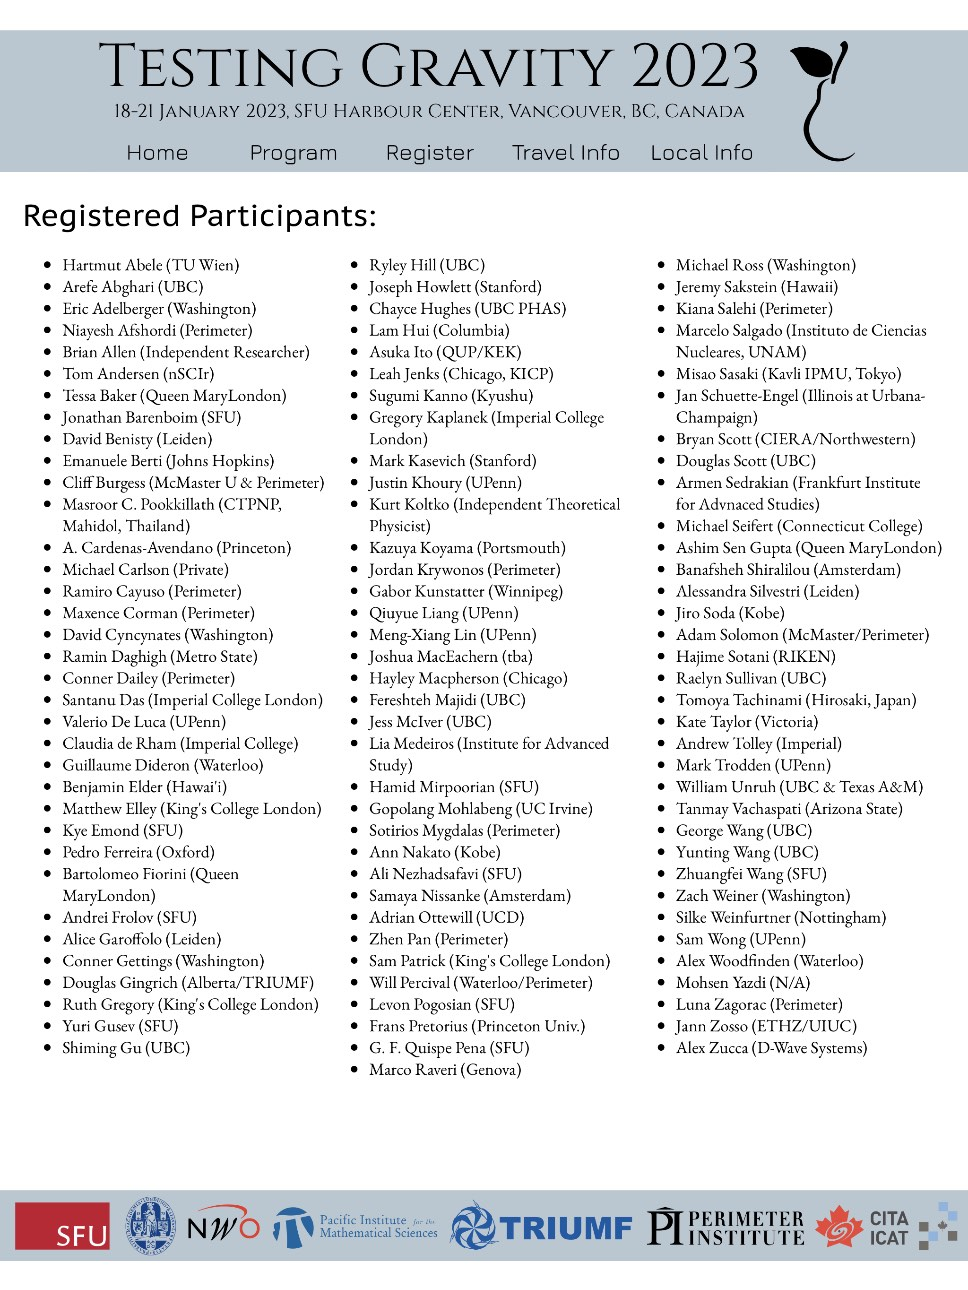
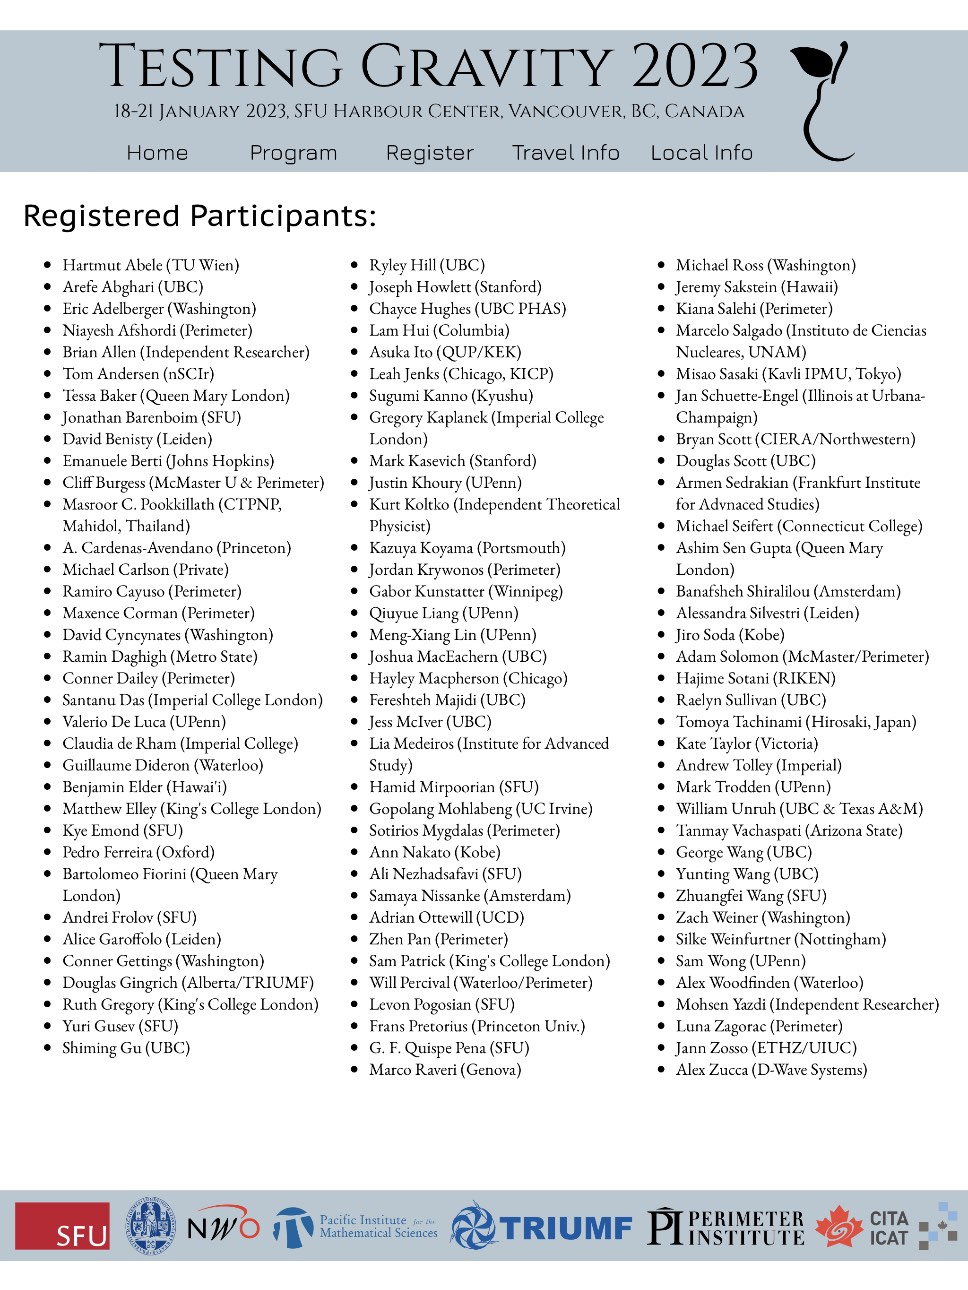
A few more typos in participant lst fixed.

diff --git a/participants/participants.html b/participants/participants.html
@@ -12,7 +12,7 @@
 <li>Niayesh Afshordi (Perimeter)
 <li>Brian Allen (Independent Researcher)
 <li>Tom Andersen (nSCIr)
-<li>Tessa Baker (Queen MaryLondon)
+<li>Tessa Baker (Queen Mary London)
 <li>Jonathan Barenboim (SFU)
 <li>David Benisty (Leiden)
 <li>Emanuele Berti (Johns Hopkins)
@@ -33,7 +33,7 @@
 <li>Matthew Elley (King's College London)
 <li>Kye Emond (SFU)
 <li>Pedro Ferreira (Oxford)
-<li>Bartolomeo Fiorini (Queen MaryLondon)
+<li>Bartolomeo Fiorini (Queen Mary London)
 <li>Andrei Frolov (SFU)
 <li>Alice Garoffolo (Leiden)
 <li>Conner Gettings (Washington)
@@ -59,7 +59,7 @@
 <li>Gabor Kunstatter (Winnipeg)
 <li>Qiuyue Liang (UPenn)
 <li>Meng-Xiang Lin (UPenn)
-<li>Joshua MacEachern (tba)
+<li>Joshua MacEachern (UBC)
 <li>Hayley Macpherson (Chicago)
 <li>Fereshteh Majidi (UBC)
 <li>Jess McIver (UBC)
@@ -90,7 +90,7 @@
 <li>Douglas Scott (UBC)
 <li>Armen Sedrakian (Frankfurt Institute for Advnaced Studies)
 <li>Michael Seifert (Connecticut College)
-<li>Ashim Sen Gupta (Queen MaryLondon)
+<li>Ashim Sen Gupta (Queen Mary London)
 <li>Banafsheh Shiralilou (Amsterdam)
 <li>Alessandra Silvestri (Leiden)
 <li>Jiro Soda (Kobe)
@@ -110,7 +110,7 @@
 <li>Silke Weinfurtner (Nottingham)
 <li>Sam Wong (UPenn)
 <li>Alex Woodfinden (Waterloo)
-<li>Mohsen Yazdi (N/A)
+<li>Mohsen Yazdi (Independent Researcher)
 <li>Luna Zagorac (Perimeter)
 <li>Jann Zosso (ETHZ/UIUC)
 <li>Alex Zucca (D-Wave Systems)

diff --git a/nametags/participants.tex b/nametags/participants.tex
@@ -4,7 +4,7 @@
 \nametag{Niayesh Afshordi}{Perimeter}
 \nametag{Brian Allen}{Independent Researcher}
 \nametag{Tom Andersen}{nSCIr}
-\nametag{Tessa Baker}{Queen MaryLondon}
+\nametag{Tessa Baker}{Queen Mary London}
 \nametag{Jonathan Barenboim}{SFU}
 \nametag{David Benisty}{Leiden}
 \nametag{Emanuele Berti}{Johns Hopkins}
@@ -25,7 +25,7 @@
 \nametag{Matthew Elley}{King's College London}
 \nametag[volunteer]{Kye Emond}{SFU}
 \nametag{Pedro Ferreira}{Oxford}
-\nametag{Bartolomeo Fiorini}{Queen MaryLondon}
+\nametag{Bartolomeo Fiorini}{Queen Mary London}
 \nametag[soc]{Andrei Frolov}{SFU}
 \nametag{Alice Garoffolo}{Leiden}
 \nametag{Conner Gettings}{Washington}
@@ -49,7 +49,7 @@
 \nametag{Gabor Kunstatter}{Winnipeg}
 \nametag{Qiuyue Liang}{UPenn}
 \nametag{Meng-Xiang Lin}{UPenn}
-\nametag{Joshua MacEachern}{tba}
+\nametag{Joshua MacEachern}{UBC}
 \nametag{Hayley Macpherson}{Chicago}
 \nametag{Fereshteh Majidi}{UBC}
 \nametag{Jess McIver}{UBC}
@@ -78,7 +78,7 @@
 \nametag[soc]{Douglas Scott}{UBC}
 \nametag{Armen Sedrakian}{Frankfurt Institute for Advnaced Studies}
 \nametag{Michael Seifert}{Connecticut College}
-\nametag{Ashim Sen Gupta}{Queen MaryLondon}
+\nametag{Ashim Sen Gupta}{Queen Mary London}
 \nametag{Banafsheh Shiralilou}{Amsterdam}
 \nametag[soc]{Alessandra Silvestri}{Leiden}
 \nametag{Jiro Soda}{Kobe}
@@ -98,7 +98,7 @@
 \nametag{Silke Weinfurtner}{Nottingham}
 \nametag{Sam Wong}{UPenn}
 \nametag{Alex Woodfinden}{Waterloo}
-\nametag{Mohsen Yazdi}{N/A}
+\nametag{Mohsen Yazdi}{Independent Researcher}
 \nametag{Luna Zagorac}{Perimeter}
 \nametag{Jann Zosso}{ETHZ/UIUC}
 \nametag[volunteer]{Alex Zucca}{D-Wave Systems}

diff --git a/participants/participants.tex b/participants/participants.tex
@@ -4,7 +4,7 @@
 \nametag{Niayesh Afshordi}{Perimeter}
 \nametag{Brian Allen}{Independent Researcher}
 \nametag{Tom Andersen}{nSCIr}
-\nametag{Tessa Baker}{Queen MaryLondon}
+\nametag{Tessa Baker}{Queen Mary London}
 \nametag{Jonathan Barenboim}{SFU}
 \nametag{David Benisty}{Leiden}
 \nametag{Emanuele Berti}{Johns Hopkins}
@@ -25,7 +25,7 @@
 \nametag{Matthew Elley}{King's College London}
 \nametag[volunteer]{Kye Emond}{SFU}
 \nametag{Pedro Ferreira}{Oxford}
-\nametag{Bartolomeo Fiorini}{Queen MaryLondon}
+\nametag{Bartolomeo Fiorini}{Queen Mary London}
 \nametag[soc]{Andrei Frolov}{SFU}
 \nametag{Alice Garoffolo}{Leiden}
 \nametag{Conner Gettings}{Washington}
@@ -49,7 +49,7 @@
 \nametag{Gabor Kunstatter}{Winnipeg}
 \nametag{Qiuyue Liang}{UPenn}
 \nametag{Meng-Xiang Lin}{UPenn}
-\nametag{Joshua MacEachern}{tba}
+\nametag{Joshua MacEachern}{UBC}
 \nametag{Hayley Macpherson}{Chicago}
 \nametag{Fereshteh Majidi}{UBC}
 \nametag{Jess McIver}{UBC}
@@ -78,7 +78,7 @@
 \nametag[soc]{Douglas Scott}{UBC}
 \nametag{Armen Sedrakian}{Frankfurt Institute for Advnaced Studies}
 \nametag{Michael Seifert}{Connecticut College}
-\nametag{Ashim Sen Gupta}{Queen MaryLondon}
+\nametag{Ashim Sen Gupta}{Queen Mary London}
 \nametag{Banafsheh Shiralilou}{Amsterdam}
 \nametag[soc]{Alessandra Silvestri}{Leiden}
 \nametag{Jiro Soda}{Kobe}
@@ -98,7 +98,7 @@
 \nametag{Silke Weinfurtner}{Nottingham}
 \nametag{Sam Wong}{UPenn}
 \nametag{Alex Woodfinden}{Waterloo}
-\nametag{Mohsen Yazdi}{N/A}
+\nametag{Mohsen Yazdi}{Independent Researcher}
 \nametag{Luna Zagorac}{Perimeter}
 \nametag{Jann Zosso}{ETHZ/UIUC}
 \nametag[volunteer]{Alex Zucca}{D-Wave Systems}

diff --git a/participants/participants.py b/participants/participants.py
@@ -49,6 +49,7 @@ table = []
 
 def mangle(affiliation):
 	affiliation = re.sub(r"^(The\s+)", '', affiliation)
+	affiliation = re.sub(r"Queen Mary University of London", 'Queen Mary London', affiliation)
 	affiliation = re.sub(r"Royal Astronomical Society", 'RASC', affiliation)
 	affiliation = re.sub(r"University of British Columbia", 'UBC', affiliation)
 	affiliation = re.sub(r"Simon Fraser (U|u)niversity", 'SFU', affiliation)
@@ -118,6 +119,8 @@ with open('participants.csv', 'rU') as csvfile:
 		if last == "Nakato": affiliation = "Kobe University"
 		if last == "Sedrakian": affiliation = "Frankfurt Institute for Advnaced Studies"
 		if last == "Weinfurtner": affiliation = "University of Nottingham"
+		if last == "MacEachern": affiliation = "University of British Columbia"
+		if last == "Yazdi": affiliation = "Independent Researcher"
 		if last == "Mirpoorian": first = "Hamid"
 
 		participants.append([last,first,affiliation])
